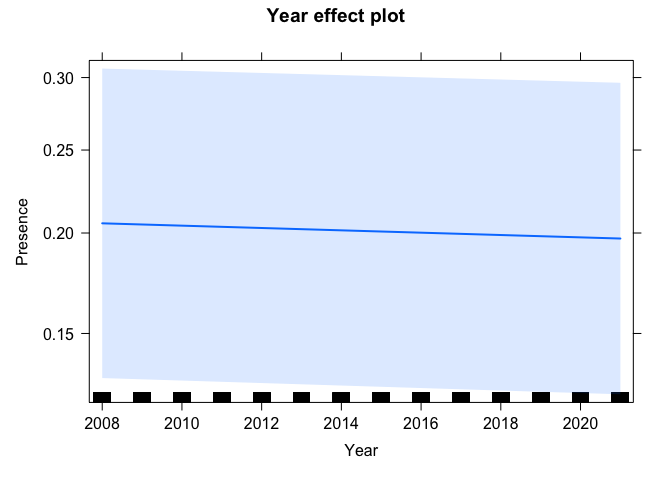
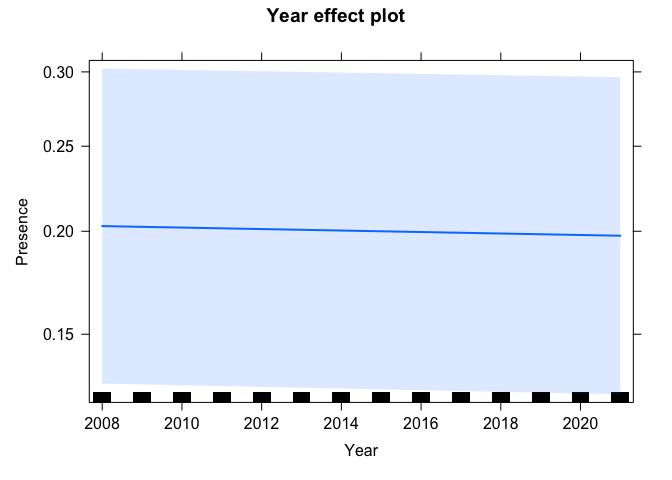
update test models

diff --git a/markdown/models_00_test_glmer_fyn.md b/markdown/models_00_test_glmer_fyn.md
@@ -1,13 +1,15 @@
-test\_glmer\_fyn
+Test glmer on fynbos indicator species
 ================
 JDM WHITE
 11/05/2022
 
-    ## Warning: package 'tidyr' was built under R version 4.0.5
-
-    ## Warning: package 'dplyr' was built under R version 4.0.5
-
-    ## Warning: package 'effects' was built under R version 4.0.5
+``` r
+# Libraries
+library(tidyverse)
+library(lme4)
+library(car)
+library(effects)
+```
 
 ``` r
 # Load fynbos stacked df
@@ -90,47 +92,65 @@ str(fyn_df)
     ##  - attr(*, "problems")=<externalptr>
 
 ``` r
+# measure time taken...
+# start
+start_time <- Sys.time()
 # run a mixed effects model; year = fixed; species = random
-glm1 <- glmer(Presence ~ Year  + (1|Species_Code), family = 'binomial', data = fyn_df)
+glmer1 <- glmer(Presence ~ Year  + (1 + Year|Species_Code), family = 'binomial', data = fyn_df)
 ```
+
+    ## Warning in checkConv(attr(opt, "derivs"), opt$par, ctrl = control$checkConv, :
+    ## Model failed to converge with max|grad| = 0.333393 (tol = 0.002, component 1)
 
     ## Warning in checkConv(attr(opt, "derivs"), opt$par, ctrl = control$checkConv, : Model is nearly unidentifiable: very large eigenvalue
     ##  - Rescale variables?;Model is nearly unidentifiable: large eigenvalue ratio
     ##  - Rescale variables?
 
 ``` r
-summary(glm1)
+# end
+end_time <- Sys.time()
+# How long did this take to run?
+end_time - start_time
+```
+
+    ## Time difference of 4.020594 mins
+
+``` r
+# Summary of model
+summary(glmer1)
 ```
 
     ## Generalized linear mixed model fit by maximum likelihood (Laplace
     ##   Approximation) [glmerMod]
     ##  Family: binomial  ( logit )
-    ## Formula: Presence ~ Year + (1 | Species_Code)
+    ## Formula: Presence ~ Year + (1 + Year | Species_Code)
     ##    Data: fyn_df
     ## 
     ##      AIC      BIC   logLik deviance df.resid 
-    ## 150462.7 150492.1 -75228.3 150456.7   135931 
+    ## 150257.5 150306.6 -75123.7 150247.5   135929 
     ## 
     ## Scaled residuals: 
     ##     Min      1Q  Median      3Q     Max 
-    ## -1.1229 -0.6227 -0.4319  0.9014  3.5926 
+    ## -1.1728 -0.6198 -0.4330  0.8864  3.9263 
     ## 
     ## Random effects:
-    ##  Groups       Name        Variance Std.Dev.
-    ##  Species_Code (Intercept) 0.6071   0.7792  
+    ##  Groups       Name        Variance  Std.Dev. Corr 
+    ##  Species_Code (Intercept) 5.339e+03 73.0693       
+    ##               Year        1.310e-03  0.0362  -1.00
     ## Number of obs: 135934, groups:  Species_Code, 8
     ## 
     ## Fixed effects:
     ##               Estimate Std. Error z value Pr(>|z|)    
-    ## (Intercept)  6.7973736  0.2723734   24.96   <2e-16 ***
-    ## Year        -0.0040588  0.0001913  -21.22   <2e-16 ***
+    ## (Intercept)  3.6687394  0.2587569   14.18   <2e-16 ***
+    ## Year        -0.0025087  0.0001864  -13.46   <2e-16 ***
     ## ---
     ## Signif. codes:  0 '***' 0.001 '**' 0.01 '*' 0.05 '.' 0.1 ' ' 1
     ## 
     ## Correlation of Fixed Effects:
     ##      (Intr)
-    ## Year -0.702
+    ## Year -0.687
     ## optimizer (Nelder_Mead) convergence code: 0 (OK)
+    ## Model failed to converge with max|grad| = 0.333393 (tol = 0.002, component 1)
     ## Model is nearly unidentifiable: very large eigenvalue
     ##  - Rescale variables?
     ## Model is nearly unidentifiable: large eigenvalue ratio
@@ -138,20 +158,20 @@ summary(glm1)
 
 ``` r
 # car::Anova
-Anova(glm1)
+Anova(glmer1)
 ```
 
     ## Analysis of Deviance Table (Type II Wald chisquare tests)
     ## 
     ## Response: Presence
     ##       Chisq Df Pr(>Chisq)    
-    ## Year 450.16  1  < 2.2e-16 ***
+    ## Year 181.12  1  < 2.2e-16 ***
     ## ---
     ## Signif. codes:  0 '***' 0.001 '**' 0.01 '*' 0.05 '.' 0.1 ' ' 1
 
 ``` r
 # Plot effects
-plot(allEffects(glm1))
+plot(allEffects(glmer1))
 ```
 
 ![](models_00_test_glmer_fyn_files/figure-gfm/unnamed-chunk-2-1.png)<!-- -->
